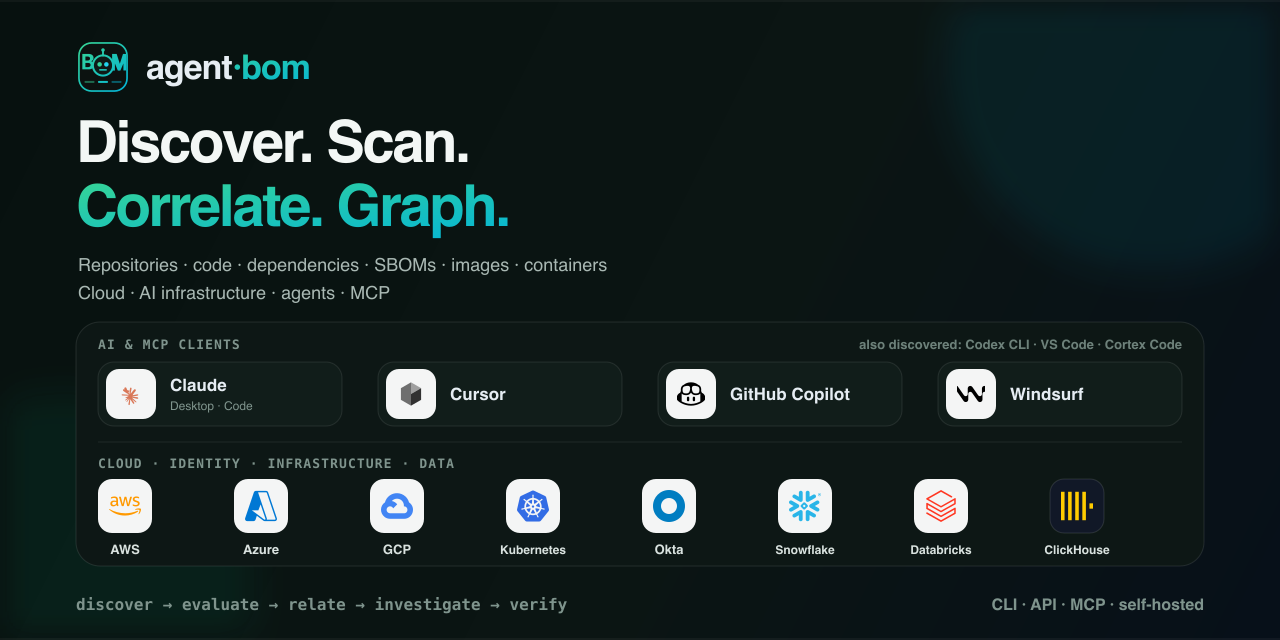
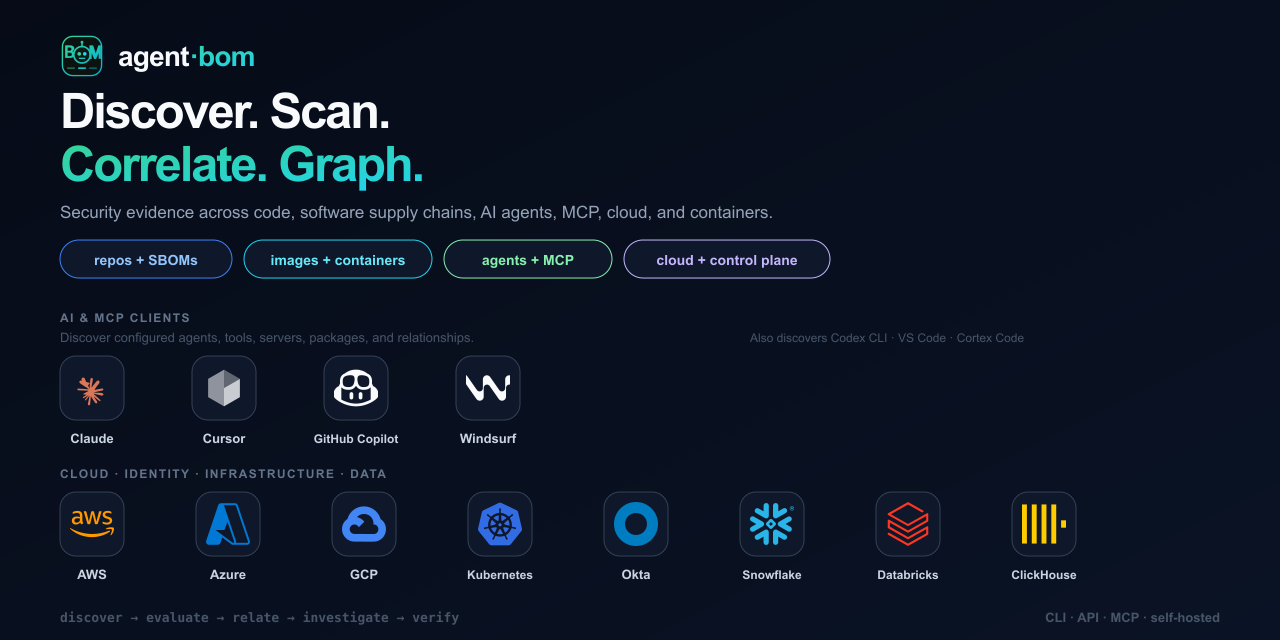
docs(brand): use official integration marks

diff --git a/tests/test_public_frontdoor_contract.py b/tests/test_public_frontdoor_contract.py
@@ -22,8 +22,12 @@ def test_social_preview_is_portable_and_evidence_focused() -> None:
     for claim in (
         "Discover. Scan.",
         "Correlate. Graph.",
-        "Repositories · code · dependencies · SBOMs · images · containers",
-        "Cloud · AI infrastructure · agents · MCP",
+        "Security evidence across code, software supply chains, AI agents, MCP, cloud, and containers.",
+        "repos + SBOMs",
+        "images + containers",
+        "agents + MCP",
+        "cloud + control plane",
+        "Discover configured agents, tools, servers, packages, and relationships.",
     ):
         assert claim in svg
     for integration in (
@@ -47,6 +51,8 @@ def test_social_preview_is_portable_and_evidence_focused() -> None:
 
     assert ">CVE</text>" not in svg
     assert ">package</text>" not in svg
+    assert 'width="244" height="64"' not in svg
+    assert svg.count('width="64" height="64" rx="16"') == 12
 
     assert "file:///" not in svg
     assert "/Users/" not in svg
